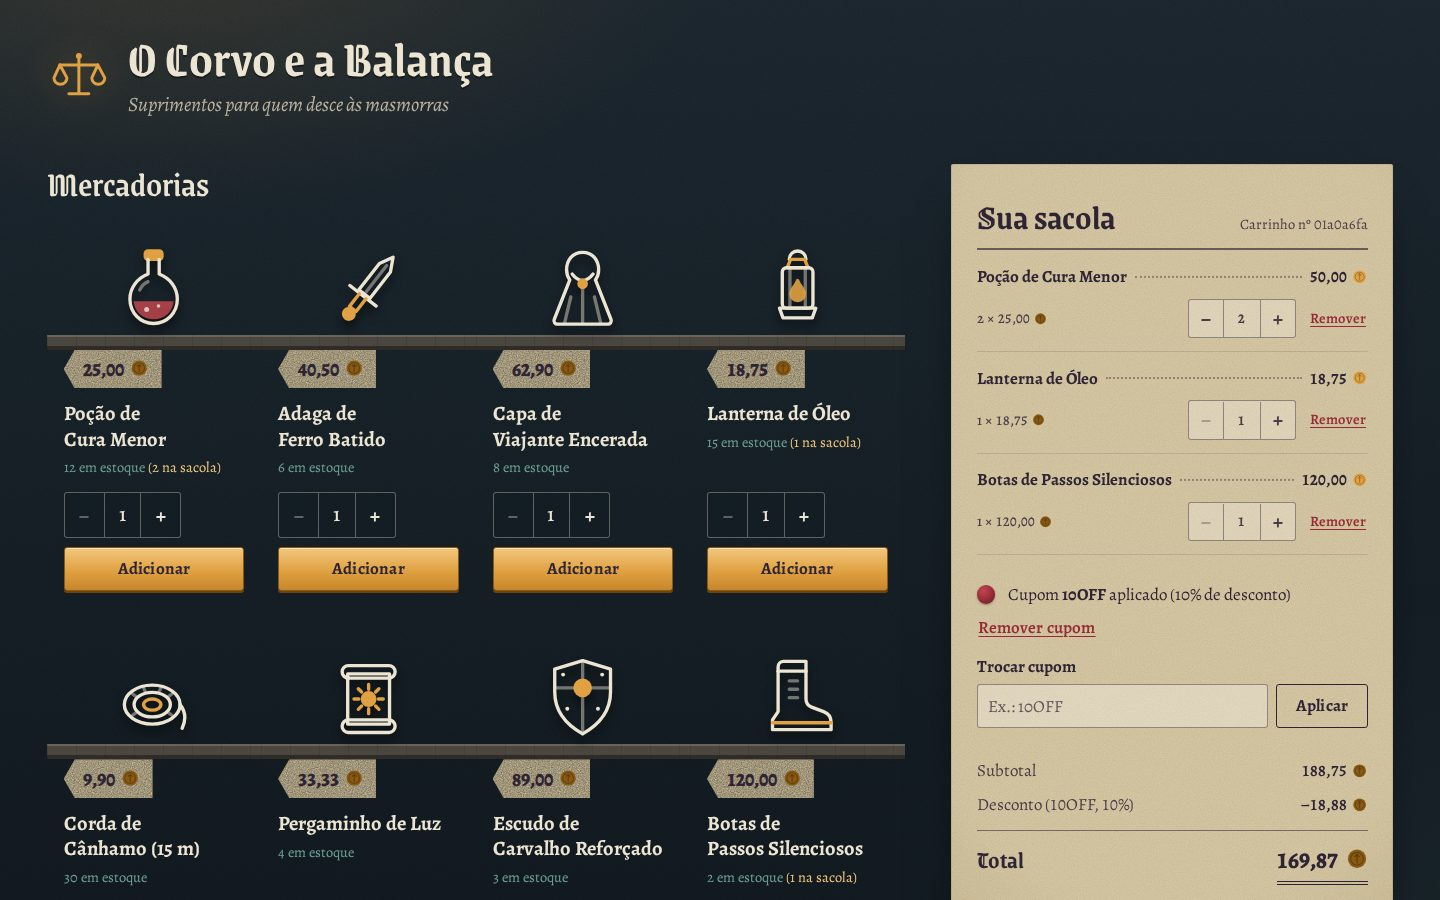
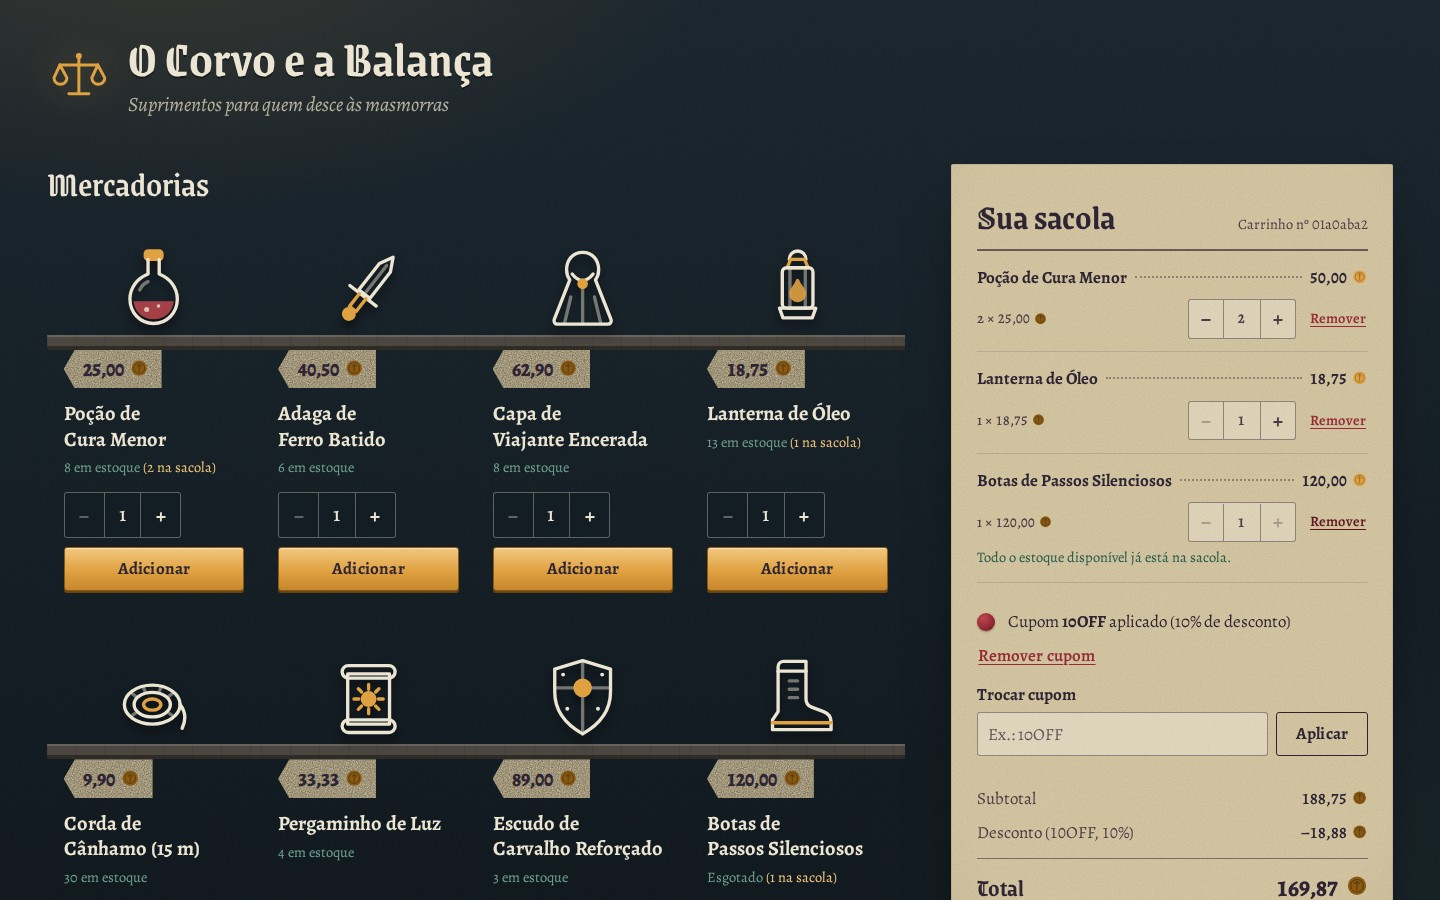
docs: documenta a reserva de estoque e atualiza as capturas
README explica o modelo (estoque físico, reservado e disponível), o prazo
configurável, as duas estratégias de concorrência e por que a sacola expirada
é terminal. As premissas e os próximos passos passam a refletir o que a loja
faz hoje, e as telas mostram a vitrine perdendo unidades e o prazo da reserva.

diff --git a/README.md b/README.md
@@ -2,6 +2,8 @@
 
 API REST de carrinho de compras em **.NET 10** (ASP.NET Core + EF Core + PostgreSQL) com um front-end **React** que a consome: catálogo com estoque, sacola com itens e quantidades, cupom de desconto, cálculo de subtotal/desconto/total e checkout.
 
+O estoque é **reservado enquanto a mercadoria está na sacola**: ela sai da vitrine para todo mundo, volta se o item sair ou se a sacola ficar parada além do prazo, e vira baixa definitiva no checkout.
+
 ![Loja com itens na sacola e cupom aplicado](docs/imagens/loja.jpg)
 
 ## Sumário
@@ -96,6 +98,11 @@ O Vite repassa as chamadas `/api` para `http://localhost:5080` (sem CORS). Para 
   dotnet ef database update --project src/CarrinhoCompras.Infrastructure --startup-project src/CarrinhoCompras.Api
   ```
 - **Catálogo:** `backend/src/CarrinhoCompras.Infrastructure/Persistence/Seed/produtos.json` e `cupons.json`. Ao aplicar as migrations, o catálogo do banco é sincronizado com esses arquivos pelo `id` (insere o que falta, atualiza o que mudou). Para usar outros dados, basta substituir os arquivos e rodar as migrations de novo.
+- **Reposição do catálogo:** o seed devolve `QuantidadeEstoque` aos valores do JSON (as compras finalizadas baixam o estoque de verdade). Para repor a loja, rode as migrations de novo — com a API parada, porque o seed não sobrescreve um sistema em uso:
+  ```bash
+  docker compose stop api && docker compose up -d --force-recreate migrations && docker compose start api
+  ```
+- **Prazo da reserva:** `Carrinho:JanelaDeReserva` (variável `Carrinho__JanelaDeReserva`, formato `hh:mm:ss`). O padrão de negócio é **15 minutos**; o `docker compose` usa **2 minutos** (`RESERVA_JANELA` no `.env`) para dar para ver a reserva voltar à vitrine sem esperar.
 - **Consultas manuais:** as tabelas e colunas usam PascalCase, então no PostgreSQL vão entre aspas:
   ```bash
   docker compose exec db psql -U carrinho -d carrinho_compras -c 'SELECT * FROM "Produto";'
@@ -112,11 +119,11 @@ cd frontend && npm run test:run                             # front-end
 
 | Suíte | Testes | O que cobre |
 |---|---:|---|
-| `CarrinhoCompras.Domain.Tests` | 69 | Regras e cálculos: carrinho vazio, com e sem cupom, quantidades alteradas, troca de cupom, arredondamento, estoque (inclusive overflow), bloqueio após checkout |
+| `CarrinhoCompras.Domain.Tests` | 86 | Regras e cálculos: carrinho vazio, com e sem cupom, quantidades alteradas, troca de cupom, arredondamento, **reserva e devolução de estoque**, expiração da sacola, bloqueio após checkout |
 | `CarrinhoCompras.ArchitectureTests` | 8 | O domínio não depende de nenhuma outra camada nem de pacotes; a Application não depende de EF Core/ASP.NET |
-| `CarrinhoCompras.Api.IntegrationTests` | 77 | A API real contra PostgreSQL real: catálogo igual ao JSON, nomes e tipos das colunas, fluxos, **formato de todos os erros**, concorrência, OpenAPI |
-| Front-end (Vitest) | 24 | Cliente HTTP, formatação, componentes e o fluxo completo da página com a API simulada |
-| Interface (Playwright) | 9 | O navegador contra a stack de verdade — ver abaixo |
+| `CarrinhoCompras.Api.IntegrationTests` | 82 | A API real contra PostgreSQL real: catálogo igual ao JSON, nomes e tipos das colunas, fluxos, **formato de todos os erros**, reserva de estoque sob requisições simultâneas, concorrência, OpenAPI |
+| Front-end (Vitest) | 25 | Cliente HTTP, formatação, componentes e o fluxo completo da página com a API simulada |
+| Interface (Playwright) | 11 | O navegador contra a stack de verdade — ver abaixo |
 
 Os testes de integração sobem um PostgreSQL descartável com **Testcontainers** (precisa de Docker). Sem Docker, dá para apontar para um PostgreSQL existente com a variável `TESTES_POSTGRES_CONNECTION_STRING` (use um banco dedicado a testes).
 
@@ -131,7 +138,7 @@ npm run navegadores   # baixa o Chromium, só na primeira vez
 npm test
 ```
 
-São nove cenários no navegador, contra o nginx, a API e o PostgreSQL reais: o fluxo completo (catálogo → somar → alterar → remover → cupom → troca de cupom → checkout), com **subtotal, desconto e total conferidos por uma conta feita dentro do próprio teste**; cupom inexistente que não derruba o cupom anterior; limite de estoque; sacola que sobrevive ao recarregamento; **duas abas** disputando a última unidade e depois um carrinho finalizado; celular; e uma compra feita **só com o teclado**. Os elementos são procurados por papel e rótulo acessível, então a suíte também protege a acessibilidade.
+São onze cenários no navegador, contra o nginx, a API e o PostgreSQL reais: o fluxo completo (catálogo → somar → alterar → remover → cupom → troca de cupom → checkout), com **subtotal, desconto e total conferidos por uma conta feita dentro do próprio teste**; cupom inexistente que não derruba o cupom anterior; limite de estoque; a vitrine perdendo e recuperando unidades conforme a sacola; sacola que sobrevive ao recarregamento; **duas abas** disputando a última unidade e depois um carrinho finalizado; celular; e uma compra feita **só com o teclado**. Os elementos são procurados por papel e rótulo acessível, então a suíte também protege a acessibilidade.
 
 Para rodar contra o modo local (`dotnet run` + `npm run dev`): `E2E_BASE_URL=http://localhost:5173 npm test`.
 
@@ -143,7 +150,7 @@ Base: `/api`. Documentação interativa em `/swagger`.
 
 | Método | Rota | Descrição | Sucesso |
 |---|---|---|---|
-| `GET` | `/produtos` | Lista o catálogo (preço líquido e estoque) | 200 |
+| `GET` | `/produtos` | Lista o catálogo (preço líquido, estoque, reservado e disponível) | 200 |
 | `GET` | `/produtos/{produtoId}` | Obtém um produto | 200 |
 | `POST` | `/carrinhos` | Cria um carrinho vazio | 201 + `Location` |
 | `GET` | `/carrinhos/{carrinhoId}` | Obtém o carrinho com itens, cupom e valores | 200 |
@@ -166,6 +173,7 @@ Toda alteração devolve o **carrinho completo já recalculado**:
       "descricaoProduto": "Poção de Cura Menor",
       "precoLiquidoUnitario": 25.00,
       "quantidadeEstoque": 12,
+      "quantidadeDisponivel": 9,
       "quantidade": 3,
       "precoItem": 75.00
     }
@@ -175,7 +183,8 @@ Toda alteração devolve o **carrinho completo já recalculado**:
   "desconto": 7.50,
   "total": 67.50,
   "criadoEm": "2026-09-15T20:46:09.664831+00:00",
-  "finalizadoEm": null
+  "finalizadoEm": null,
+  "expiraEm": "2026-09-15T21:01:09.664831+00:00"
 }
 ```
 
@@ -204,6 +213,7 @@ Erros de validação trazem também `errors`, por campo: `{ "quantidade": ["A qu
 | 404 | `carrinho.item_nao_encontrado` | Alterar ou remover um produto que não está no carrinho |
 | 404 / 405 / 415 | `recurso.nao_encontrado`, `metodo.nao_permitido`, `midia.nao_suportada` | Rota inexistente, método não suportado, corpo que não é JSON |
 | 409 | `carrinho.finalizado` | Qualquer alteração em carrinho finalizado |
+| 409 | `carrinho.expirado` | Qualquer alteração em carrinho cuja reserva venceu |
 | 409 | `carrinho.conflito_concorrencia` | Outra requisição alterou o mesmo carrinho ao mesmo tempo |
 | 422 | `produto.estoque_insuficiente` | Quantidade resultante maior que o estoque |
 | 422 | `cupom.invalido` | Cupom inexistente |
@@ -238,7 +248,7 @@ flowchart LR
 
 - **Domain** — entidades e regras de negócio, **sem nenhum pacote**: o agregado `Carrinho` concentra itens, estoque, cupom, cálculos e finalização.
 - **Application** — um handler por caso de uso, que carrega o agregado, chama a regra do domínio e grava; validadores de entrada (FluentValidation); interfaces de repositório.
-- **Infrastructure** — `DbContext`, mapeamentos (Fluent API), migrations, seed do catálogo e repositórios.
+- **Infrastructure** — `DbContext`, mapeamentos (Fluent API), migrations, seed do catálogo, repositórios e o serviço em segundo plano que devolve as reservas vencidas (o *quando* é detalhe de execução; o *o quê* é um caso de uso da Application).
 - **Api** — controllers finos, tradução de resultados para HTTP e padronização de erros.
 
 Um teste de arquitetura garante essas dependências. Fluxo de uma requisição:
@@ -265,10 +275,11 @@ e2e/                                   testes de navegador (Playwright) contra a
 ## Decisões de design
 
 **Modelagem de produto, estoque e carrinho**
-- **`Produto`** (`ID`, `DescricaoProduto`, `PrecoLiquido`, `QuantidadeEstoque`) vem do catálogo e é somente leitura para a API: nenhum endpoint altera preço ou estoque.
-- **Estoque é um limite, não uma reserva:** a validação compara a **quantidade resultante** do item no carrinho (atual + adicionada, ou a nova quantidade substituída) com `QuantidadeEstoque`. A soma é feita em `long`, para uma quantidade enorme não estourar o inteiro e passar na validação.
-- **`Carrinho`** é a raiz do agregado: status (`Aberto`/`Finalizado`), no máximo um cupom, subtotal, desconto e total. **`ItemCarrinho`** guarda produto, quantidade, preço unitário e preço do item (preço unitário × quantidade), com uma linha por produto.
-- As respostas expõem, para o produto, `precoLiquido` e `quantidadeEstoque` e, para o item, `precoLiquidoUnitario` e `quantidadeEstoque` (estoque atual do produto).
+- **`Produto`** (`ID`, `DescricaoProduto`, `PrecoLiquido`, `QuantidadeEstoque`) vem do catálogo; preço e descrição são somente leitura para a API. O estoque tem **dois números**: `QuantidadeEstoque` são as peças físicas da loja e `QuantidadeReservada` as que estão presas em sacolas abertas. A vitrine mostra a diferença, `QuantidadeDisponivel`.
+- **Estoque é reserva, não só limite:** entrar na sacola **prende** unidades (somem da vitrine para todo mundo); sair dela, diminuir a quantidade ou deixar a sacola vencer **devolve**; o checkout **confirma a venda** (o físico cai e não volta). Sem isso, duas sacolas levavam a mesma última unidade e as duas finalizavam.
+- **Um prazo, porque reserva sem prazo é estoque parado:** enquanto tem itens, a sacola aberta guarda um `ExpiraEm`, renovado a cada alteração. Vencido, as unidades voltam e o carrinho fica `Expirado`. A janela é configurável (`Carrinho:JanelaDeReserva`), porque "quanto tempo a loja segura uma peça" é decisão comercial — uma bilheteria segura por minutos, um supermercado nem segura.
+- **`Carrinho`** é a raiz do agregado: status (`Aberto`/`Finalizado`/`Expirado`), no máximo um cupom, subtotal, desconto e total. **`ItemCarrinho`** guarda produto, quantidade, preço unitário e preço do item (preço unitário × quantidade), com uma linha por produto.
+- As respostas expõem, para o produto, `precoLiquido`, `quantidadeEstoque`, `quantidadeReservada` e `quantidadeDisponivel`; para o item, `precoLiquidoUnitario`, `quantidadeEstoque` e `quantidadeDisponivel` (quanto ainda dá para somar àquela linha).
 
 **Modelagem e regras**
 - **Domínio rico:** estado com setters privados, e toda alteração passa por métodos do `Carrinho`, que validam e **sempre recalculam** subtotal, desconto e total. Não há outro caminho para mudar um item.
@@ -282,7 +293,10 @@ e2e/                                   testes de navegador (Playwright) contra a
 - **Carrinho persistido com seus valores:** a tabela `Carrinho` guarda status, cupom, subtotal, desconto e total; cada item guarda o preço unitário do momento. Um carrinho finalizado mantém exatamente os valores do checkout.
 - **Seed com `UseSeeding`/`UseAsyncSeeding`** a partir dos JSON embutidos (upsert por id, idempotente). Com `HasData` os valores fariam parte do modelo, e trocar o JSON sem criar uma migration faria o EF Core 9+ recusar a migração.
 - **Chave composta `(CarrinhoID, ProdutoID)`:** o banco também garante uma linha por produto em cada carrinho.
-- **Concorrência otimista** com a coluna de sistema `xmin` do PostgreSQL: duas requisições simultâneas no mesmo carrinho não perdem atualizações; a que perde recebe 409.
+- **Concorrência, com duas estratégias diferentes de propósito:**
+  - no **carrinho**, otimista (`xmin` do PostgreSQL): duas requisições no mesmo carrinho não perdem atualizações; a que perde recebe 409. Conflito ali é raro e o cliente só recarrega.
+  - no **estoque**, pessimista: antes de reservar, a operação toma `SELECT ... FOR UPDATE` nas linhas dos produtos envolvidos, **sempre em ordem de ID** (nunca há espera circular). Requisições simultâneas pelo mesmo produto **esperam** em vez de falhar — numa loja, o item concorrido é justamente o que mais daria 409. O `xmin` também está no `Produto`, como rede de segurança: se algum caminho esquecer o bloqueio, aparece um conflito em vez de venda duplicada silenciosa.
+- **Devolução automática:** um serviço em segundo plano varre as sacolas vencidas a cada 30 s, uma transação por carrinho, para que um conflito com quem estiver usando aquela sacola não pare a varredura. A consulta ao carrinho continua sendo **leitura pura** — quem devolve as unidades é a varredura ou a própria tentativa de alterar.
 - **Id do carrinho em UUID v7** (ordenável, bom para índice, e não "adivinhável" como um sequencial).
 
 **API**
@@ -301,7 +315,7 @@ e2e/                                   testes de navegador (Playwright) contra a
 
 1. **Adicionar produto:** o enunciado recebe "produto + quantidade" e diz que um produto novo "entra com quantidade 1". A quantidade é **opcional, com padrão 1**: um produto novo entra com a quantidade enviada (1 se omitida) e um produto existente **soma** a quantidade. Assim nenhuma entrada é ignorada, e o exemplo do enunciado (1 + 1 = 2) continua valendo.
 2. **Remover** retira a linha inteira do produto.
-3. **Estoque** limita a quantidade de cada produto **por carrinho**. O checkout **não baixa o estoque**: o enunciado não pede isso e o banco deve manter os valores do catálogo (ver [Próximos passos](#próximos-passos)).
+3. **Estoque é reservado** enquanto a mercadoria está na sacola e **baixa de verdade** no checkout. O enunciado só exige recusar quantidade acima do disponível, o que já estaria atendido com uma validação simples; a reserva foi além de propósito, porque sem ela duas sacolas podiam levar a mesma última peça. Uma **sacola expirada é terminal**: os itens continuam à vista, mas ela não volta a valer — a tela oferece começar outra.
 4. **Preço do item:** o preço unitário é registrado ao adicionar ou alterar o item; os totais gravados preservam os valores do checkout.
 5. **Checkout de carrinho vazio** não é permitido (422).
 6. **Carrinho finalizado** rejeita qualquer alteração com 409, inclusive finalizar de novo. Essa verificação vem antes das demais: tentar adicionar um produto inexistente a um carrinho finalizado também devolve "carrinho finalizado".
@@ -326,12 +340,14 @@ e2e/                                   testes de navegador (Playwright) contra a
 
 - **O front nunca calcula dinheiro:** exibe exatamente o que a API devolve. Cada alteração substitui o estado local pelo carrinho recalculado.
 - **TanStack Query** cuida do estado do servidor; as alterações do carrinho são **enfileiradas** (uma de cada vez, na ordem dos cliques), e um carrinho só é criado na primeira ação.
-- **Erros aparecem junto da ação que falhou**, com a mensagem da API (estoque, cupom inválido, carrinho finalizado). Depois de uma recusa, a sacola é recarregada do servidor: se outra aba alterou ou finalizou o carrinho, a tela mostra o estado real.
+- **A reserva é visível:** a sacola diz por quanto tempo o mercador guarda as peças, e a prateleira mostra o disponível caindo assim que algo entra na sacola — sem essa linha, o número mudaria sozinho e ninguém entenderia por quê. Vencido o prazo, a tela avisa que as mercadorias voltaram para a loja.
+- **Erros aparecem junto da ação que falhou**, com a mensagem da API (estoque, cupom inválido, carrinho finalizado ou expirado). Depois de uma recusa, a sacola é recarregada do servidor: se outra aba alterou ou finalizou o carrinho, a tela mostra o estado real.
 - **Identidade visual própria:** o balcão de um mercador numa cidade portuária sombria. As mercadorias ficam sobre prateleiras de madeira, com etiqueta de preço; a sacola é um livro-caixa de pergaminho, com traço duplo sob o total; o checkout é marcado por um selo de cera, a única animação da página. Os valores aparecem em moedas de ouro, e os rótulos seguem termos comuns de loja (Subtotal, Desconto, Total, Finalizar compra).
 - **Acessibilidade:** contraste AA, foco visível, controles com rótulos descritivos, valores lidos por extenso e anúncios das mudanças da sacola; animação desligada para quem prefere menos movimento.
 - **Responsivo:** no celular, as mercadorias ficam em duas colunas e uma barra fixa mostra o total e leva até a sacola.
 
-<img src="docs/imagens/celular.jpg" alt="Loja no celular" width="300">
+<img src="docs/imagens/reserva.jpg" alt="Livro-caixa com itens, cupom, totais e o prazo da reserva" width="330">
+<img src="docs/imagens/celular.jpg" alt="Loja no celular" width="270">
 
 ---
 
@@ -339,8 +355,10 @@ e2e/                                   testes de navegador (Playwright) contra a
 
 Todos os requisitos do enunciado e os diferenciais estão implementados. Evoluções naturais:
 
-- **Estoque transacional:** reservar ou baixar o estoque no checkout, com revalidação e concorrência otimista também na tabela `Produto`.
+- **Reserva que sobrevive ao vencimento:** hoje a sacola vencida é terminal. O passo natural é manter os itens e tentar reservá-los de novo quando a pessoa voltar, avisando só o que não couber mais.
+- **Devolver ao estoque no cancelamento/estorno:** existe finalizar, não existe desfazer.
 - **Autenticação e dono do carrinho**, para que só quem criou o carrinho possa acessá-lo.
+- **Vitrine ao vivo:** hoje a prateleira é atualizada a cada ação da própria pessoa; a reserva de outra sacola só aparece no próximo carregamento. Um polling curto ou SSE mostraria o estoque mudando em tempo real.
 - **Cupons mais completos:** validade, valor mínimo e limite de uso, com o percentual aplicado registrado no carrinho.
 - **Chaves de idempotência** nas operações de escrita, para repetições seguras de rede.
 - **Observabilidade:** OpenTelemetry (traces e métricas) e logs estruturados.
